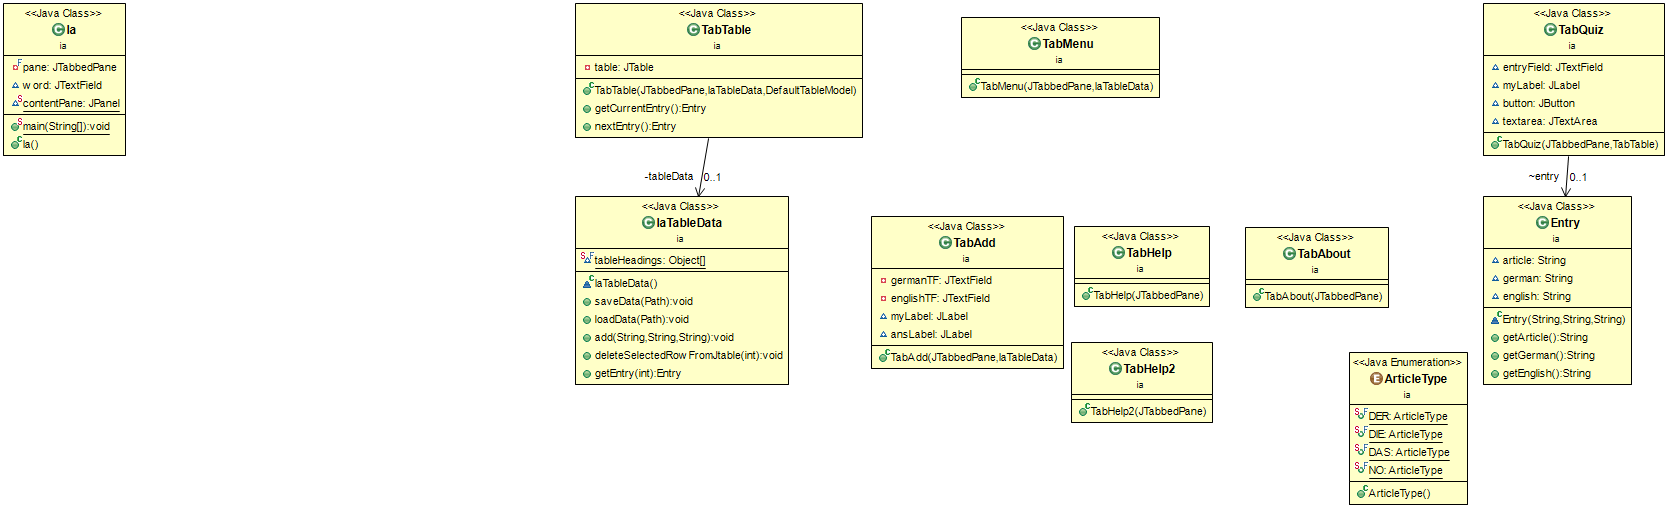
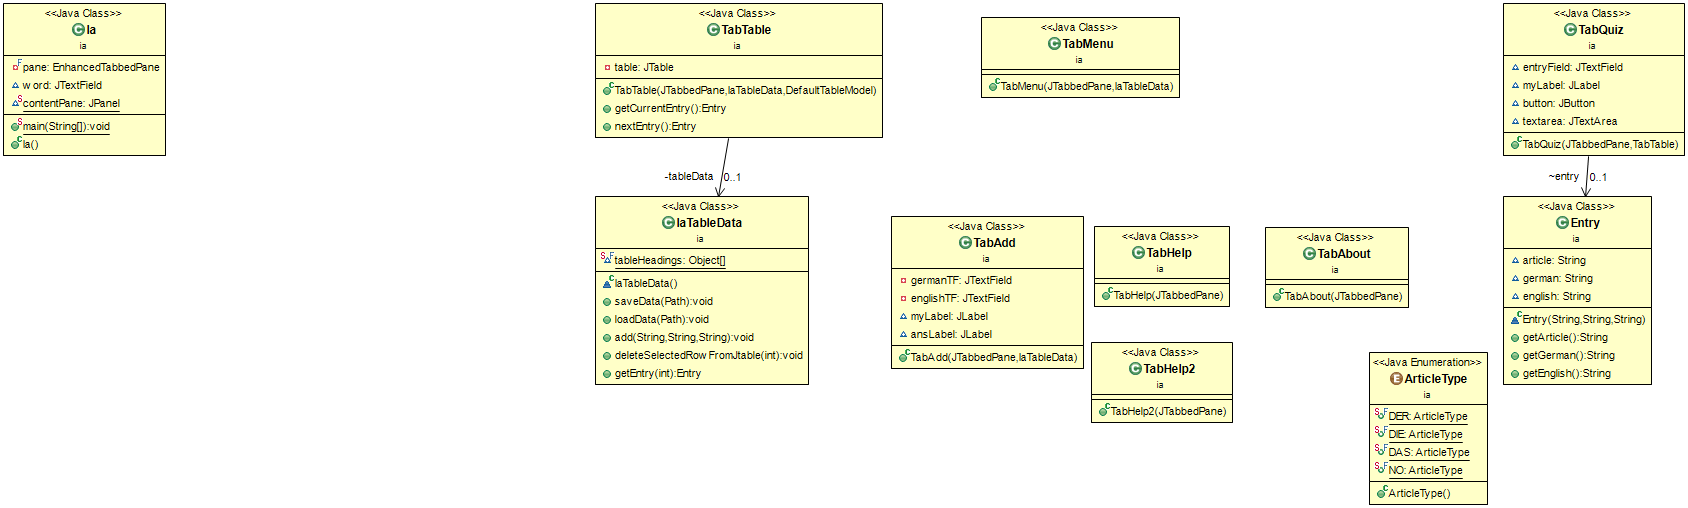
adasdsa

diff --git a/ia/src/ia/EnhancedTabbedPane.java b/ia/src/ia/EnhancedTabbedPane.java
@@ -1,0 +1,36 @@
+package ia;
+
+import java.awt.Graphics; 
+import java.awt.Rectangle;
+
+import javax.swing.JTabbedPane;
+import javax.swing.plaf.basic.BasicTabbedPaneUI;
+
+public class EnhancedTabbedPane extends JTabbedPane {
+	private static final long serialVersionUID = -4093130253460783895L;
+	private boolean showTabs = true;
+	private class MyUI extends BasicTabbedPaneUI {
+		@Override
+		protected int calculateTabAreaHeight(int tabPlacement, int horizontalRunCount, int maxTabHeight) {
+			return showTabs ? super.calculateTabAreaHeight(tabPlacement, horizontalRunCount, maxTabHeight) : 0;
+		}
+		@Override
+		protected void paintTab(Graphics g, int tabPlacement, Rectangle[] rects, int tabIndex, Rectangle iconRect, Rectangle textRect) {
+			if (showTabs) super.paintTab(g, tabPlacement, rects, tabIndex, iconRect, textRect);
+		}
+	}
+	public EnhancedTabbedPane() {
+		this(JTabbedPane.TOP, JTabbedPane.WRAP_TAB_LAYOUT);
+	}
+	public EnhancedTabbedPane(int tabPlacement) {
+		this(JTabbedPane.TOP, JTabbedPane.WRAP_TAB_LAYOUT);
+	}
+	public EnhancedTabbedPane(int tabPlacement, int tabLayoutPolicy) {
+		super(tabPlacement, tabLayoutPolicy);
+		setUI(new MyUI());
+	}
+	public void setTabsVisible(boolean isVisible) {
+		this.showTabs = isVisible;
+		repaint();
+	}
+}

diff --git a/ia/src/ia/TabTable.java b/ia/src/ia/TabTable.java
@@ -50,7 +50,7 @@ public class TabTable extends JPanel {
 		JButton backToPracticeBT = new JButton("Back to Practice");
 		backToPracticeBT.addActionListener(new ActionListener() {
 			public void actionPerformed(ActionEvent e) {
-				tabbedPane.setSelectedIndex(2);
+				tabbedPane.setSelectedIndex(1);
 			}
 		});
 		backToPracticeBT.setBounds(95, 335, 129, 23);

diff --git a/ia/src/ia/Ia.java b/ia/src/ia/Ia.java
@@ -16,7 +16,7 @@ import javax.swing.border.EmptyBorder;
 
 
 public class Ia extends JFrame  {
-	private final JTabbedPane pane = new JTabbedPane();
+	private final EnhancedTabbedPane pane = new EnhancedTabbedPane();
 	JTextField word;
 	static JPanel contentPane;
 

diff --git a/ia/src/ia/TabAdd.java b/ia/src/ia/TabAdd.java
@@ -3,7 +3,6 @@ package ia;
 import java.awt.Color;
 import java.awt.event.ActionEvent;
 import java.awt.event.ActionListener;
-
 import javax.swing.DefaultComboBoxModel;
 import javax.swing.JButton;
 import javax.swing.JLabel;

diff --git a/ia/src/ia/TabAbout.java b/ia/src/ia/TabAbout.java
@@ -4,7 +4,6 @@ import java.awt.Color;
 import java.awt.Font;
 import java.awt.event.ActionEvent;
 import java.awt.event.ActionListener;
-
 import javax.swing.JButton;
 import javax.swing.JLabel;
 import javax.swing.JPanel;

diff --git a/ia/src/ia/TabHelp.java b/ia/src/ia/TabHelp.java
@@ -4,7 +4,6 @@ import java.awt.Color;
 import java.awt.Font;
 import java.awt.event.ActionEvent;
 import java.awt.event.ActionListener;
-
 import javax.swing.JButton;
 import javax.swing.JLabel;
 import javax.swing.JPanel;
